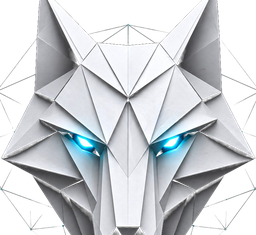
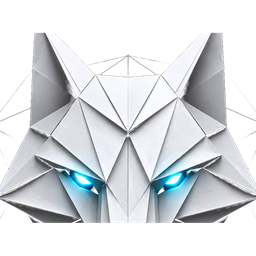
fix: tighter wolf head crop (no lower jaw) + square 40/48px sizing
Previous wolf-compact.png included too much body, causing the lower
jaw to be cut off by the navbar's bottom edge. Tightened the crop:

  - Vertical: 6% to 62% of source (head only, no muzzle/lower jaw)
  - Padded to square (256x256) so display fits cleanly in equal w/h boxes
  - Added object-fit: contain to prevent any future overflow

Sizes reduced for better fit:
  Navbar 48 -> 40
  Footer 56 -> 48

diff --git a/src/Vrikaan.jsx b/src/Vrikaan.jsx
@@ -58,15 +58,16 @@ const T = {
 };
 
 /* ── VRIKAAN WOLF MARK — real origami wolf head (cropped tight for small UI) ── */
-const WolfMark = ({ size = 44 }) => (
+const WolfMark = ({ size = 40 }) => (
   <img
     src="/wolf-compact.png"
     alt="VRIKAAN"
     width={size}
-    height={Math.round(size * 235 / 256)}
+    height={size}
     style={{
       display: "block",
       flexShrink: 0,
+      objectFit: "contain",
       filter: "drop-shadow(0 0 6px rgba(20,227,197,0.4))",
       animation: "wolfPulse 2.6s ease-in-out infinite",
     }}
@@ -2174,7 +2175,7 @@ const Footer = () => (
     <div style={{ maxWidth: 1280, margin: "0 auto", display: "grid", gridTemplateColumns: "1.5fr repeat(4, 1fr)", gap: "clamp(32px, 4vw, 60px)", alignItems: "start" }} className="footer-grid">
       <div>
         <div style={{ display: "flex", alignItems: "center", gap: 12, marginBottom: 20 }}>
-          <WolfMark size={56} />
+          <WolfMark size={48} />
           <span style={{ fontFamily: "var(--font-display)", fontSize: 22, letterSpacing: 4, color: T.white, fontWeight: 700 }}>VRIKAAN</span>
         </div>
         <p style={{ fontFamily: "var(--font-body)", color: T.mutedDark, fontSize: 14, lineHeight: 1.8, marginBottom: 20, maxWidth: 240 }}>
@@ -2414,7 +2415,7 @@ input:focus { box-shadow: 0 0 0 3px rgba(99,102,241,0.1) !important; }
         opacity: pageReady ? 1 : 0, transform: pageReady ? "translateY(0)" : "translateY(-20px)",
       }}>
         <div onClick={() => window.scrollTo({ top: 0, behavior: "smooth" })} style={{ display: "flex", alignItems: "center", gap: 12, cursor: "pointer" }}>
-          <WolfMark size={48} />
+          <WolfMark size={40} />
           <span style={{ fontFamily: "var(--font-display)", fontSize: 22, letterSpacing: 4, color: T.white, fontWeight: 700 }}>VRIKAAN</span>
         </div>
         <div className="nav-links-desktop" style={{ display: "flex", gap: 28, alignItems: "center" }}>

diff --git a/src/components/Footer.jsx b/src/components/Footer.jsx
@@ -26,11 +26,12 @@ const Footer = () => (
             <img
               src="/wolf-compact.png"
               alt="VRIKAAN"
-              width="56"
-              height="51"
+              width="48"
+              height="48"
               style={{
                 display: "block",
                 flexShrink: 0,
+                objectFit: "contain",
                 filter: "drop-shadow(0 0 6px rgba(20,227,197,0.4))",
                 animation: "wolfPulse 2.6s ease-in-out infinite",
               }}

diff --git a/src/components/Navbar.jsx b/src/components/Navbar.jsx
@@ -169,11 +169,12 @@ const Navbar = () => {
           <img
             src="/wolf-compact.png"
             alt="VRIKAAN"
-            width="48"
-            height="44"
+            width="40"
+            height="40"
             style={{
               display: "block",
               flexShrink: 0,
+              objectFit: "contain",
               filter: "drop-shadow(0 0 6px rgba(20,227,197,0.4))",
               animation: "wolfPulse 2.6s ease-in-out infinite",
             }}

diff --git a/scripts/make_wolf_compact.py b/scripts/make_wolf_compact.py
@@ -17,15 +17,21 @@ OUT = os.path.join(ROOT, "public", "wolf-compact.png")
 src = Image.open(SRC).convert("RGBA")
 print(f"source: {src.size}")
 
-# Tight crop — focus on the head only (skip the lower jaw + full mesh)
-# wolf-clean-1024 has wolf centered. We want top 75% of height roughly.
+# SUPER tight crop — just the head (ears + eyes + top of snout, NO lower jaw)
+# Square aspect so it can render in equal width/height boxes without distortion
 w, h = src.size
-# Pad horizontally 5%, crop top 5% to 80% (head + top of muzzle)
-left = int(w * 0.08)
-right = int(w * 0.92)
-top = int(h * 0.05)
-bottom = int(h * 0.78)
+left = int(w * 0.10)
+right = int(w * 0.90)
+top = int(h * 0.06)
+bottom = int(h * 0.62)  # cut off at top of muzzle, before lower jaw
 cropped = src.crop((left, top, right, bottom))
+
+# Pad to square so display fits in width=height containers cleanly
+cw, ch = cropped.size
+side = max(cw, ch)
+square = Image.new("RGBA", (side, side), (0, 0, 0, 0))
+square.paste(cropped, ((side - cw) // 2, (side - ch) // 2), cropped)
+cropped = square
 print(f"cropped: {cropped.size}")
 
 # Resize to 256 max dim for crisp small-size rendering
